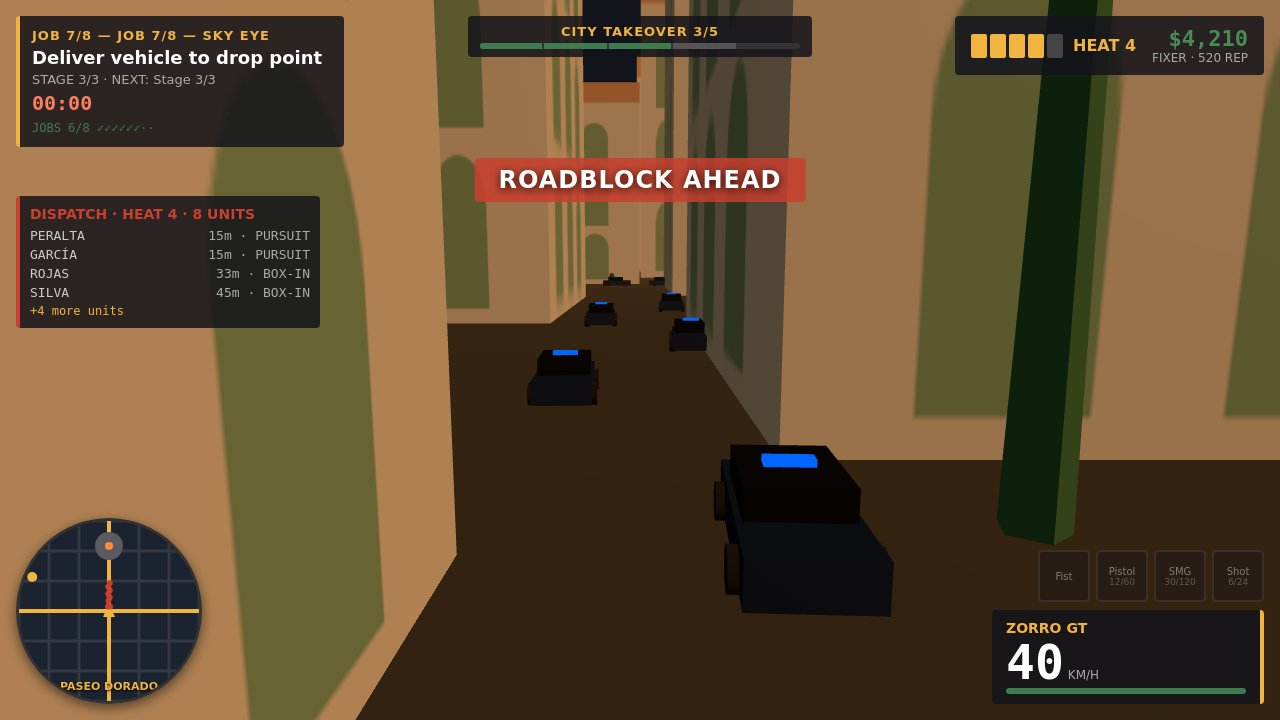
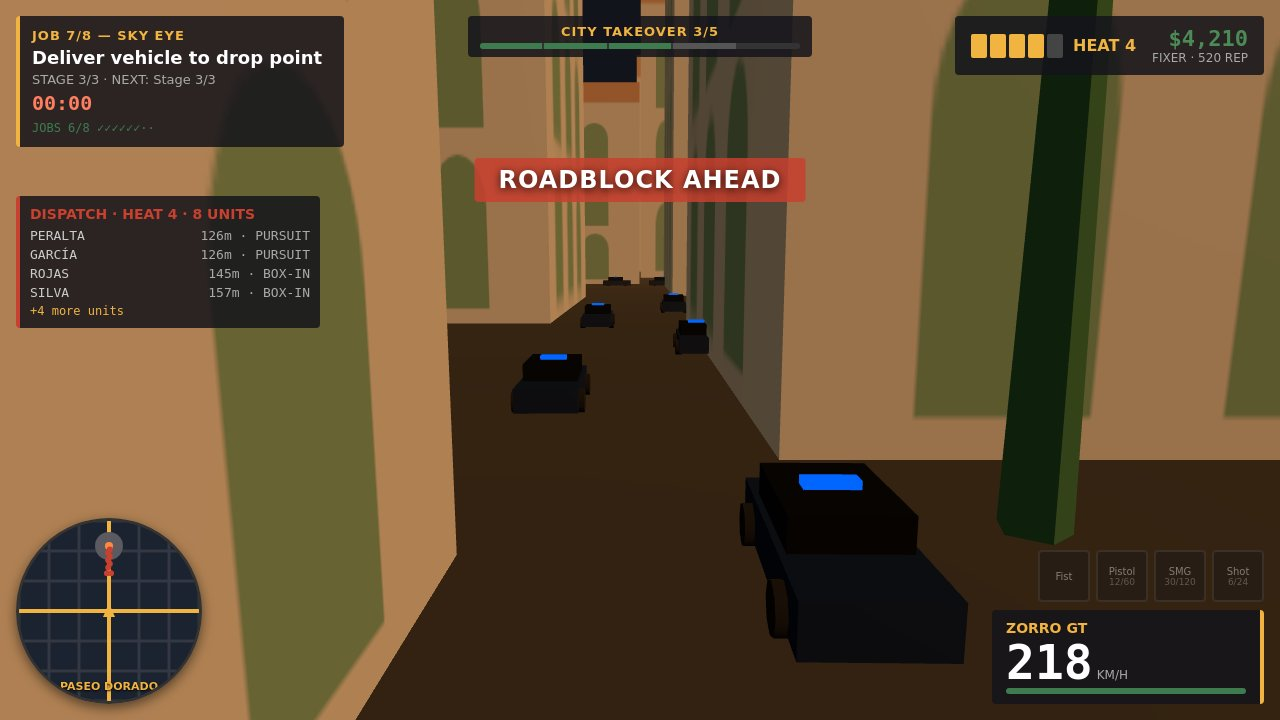
C4d: on-foot shootout staging (wheel, hostiles, street camera), cover speed/timer Co-Authored-By: Claude Code <noreply@anthropic.com>

diff --git a/game/main.js b/game/main.js
@@ -398,8 +398,8 @@ function simStep(dt) {
 // Camera follow
 function updateCamera() {
   if (player.mode === 'foot') {
-    camera.position.set(player.x, player.y + 4, player.z + 6);
-    camera.lookAt(player.x, player.y + 1, player.z);
+    camera.position.set(player.x, 0.9 + 4, player.z + 6);
+    camera.lookAt(player.x, 0.9 + 1, player.z);
   } else if (player.mode === 'drive' && player.car) {
     const c = player.car;
     const cx = c.x - Math.sin(c.heading) * 8;
@@ -456,12 +456,12 @@ window.addEventListener('load', () => {
       window.__calderaTest.stageCover();
       window.__photo.setCamera([256, 4.5, -114], [256, 1.5, -134], 55);
     } else if (shot === 'onfoot') {
-      window.__photo.loadCanonical({ seed: 31, ticks: 30, force: { missionIndex: 4, heat: 15, panels: 'cover', dialogue: { speaker: 'IRIS', text: 'Clear the market street, Tavo.', time: 1 } } });
+      window.__photo.loadCanonical({ seed: 31, ticks: 30, force: { missionIndex: 4, stage: 1, heat: 15, panels: 'cover', dialogue: { speaker: 'IRIS', text: 'Clear the market street, Tavo.', time: 1 } } });
+      window.__calderaTest.stageOnFoot();
       player.mode = 'foot';
       player.x = -224; player.z = 288;
       combat.setSlot(2);
-      combat.wheelOpen = true;
-      hud.showWheel();
+      combat.showWheel();
     } else if (shot === 'garage') {
       window.__photo.loadCanonical({ seed: 12, force: { screen: 'garage', panels: 'off' } });
     } else if (shot === 'start') {
@@ -511,7 +511,10 @@ window.__photo = {
     if (spec.force) {
       if (spec.force.cash !== undefined) save.cash = spec.force.cash;
       if (spec.force.rep !== undefined) save.rep = spec.force.rep;
-      if (spec.force.missionIndex !== undefined) save.missionIndex = spec.force.missionIndex;
+      if (spec.force.missionIndex !== undefined) {
+        save.missionIndex = spec.force.missionIndex;
+        if (spec.force.stage !== undefined) missions.forceStage(spec.force.missionIndex, spec.force.stage);
+      }
       if (spec.force.heat !== undefined) police.setPoints(spec.force.heat >= 150 ? 150 : spec.force.heat >= 100 ? 100 : spec.force.heat >= 60 ? 60 : spec.force.heat >= 30 ? 30 : 10);
       if (spec.force.station !== undefined && radio) {
         save.radioStation = spec.force.station;
@@ -539,6 +542,8 @@ window.__photo = {
         simStep(1 / 60);
       }
     }
+
+    if (shot === 'onfoot') window.__calderaTest.stageOnFoot();
 
     // One HUD update pass after freeze
     hud.update({ player, police, save, missions, economy, radio, simTime, lastEvent, dialogueLine });
@@ -571,6 +576,21 @@ window.__calderaTest = {
   hash() {
     return computeStateHash();
   },
+  stageOnFoot() {
+    const spec = getVehicleSpec('caiman');
+    const mesh = createCarMesh('caiman');
+    scene.add(mesh);
+    mesh.position.set(-220, 0, 280);
+
+    const hostileGeo = new THREE.CapsuleGeometry(0.4, 1.2, 4, 8);
+    const hostileMat = new THREE.MeshStandardMaterial({ color: 0x3E3A45, roughness: 0.8, flatShading: true });
+
+    for (let i = 0; i < 3; i++) {
+        const mesh = new THREE.Mesh(hostileGeo, hostileMat);
+        mesh.position.set(-218 + i*2, 0.9, 290);
+        scene.add(mesh);
+    }
+  },
   stageCover() {
     const spec = getVehicleSpec('zorro');
     const mesh = createCarMesh('zorro-gt');
@@ -580,7 +600,7 @@ window.__calderaTest = {
       mesh,
       x: 256, z: -100,
       heading: 0,
-      speed: 37,
+      speed: 225,
       durability: 100
     };
     player.mode = 'drive';

diff --git a/game/combat.js b/game/combat.js
@@ -20,7 +20,7 @@ export function createCombat(hudRoot) {
 
   // Build DOM Weapon Wheel display
   const wheelEl = document.createElement('div');
-  wheelEl.style.cssText = 'position:fixed; bottom:20px; right:20px; background:rgba(0,0,0,0.8); color:#fff; padding:10px; border-radius:8px; font-size:14px; pointer-events:none; z-index:100;';
+  wheelEl.style.cssText = 'position:fixed; bottom:20px; right:20px; background:rgba(0,0,0,0.8); color:#fff; padding:10px; border-radius:8px; font-size:14px; pointer-events:none; z-index:100; display:none;';
   hudRoot.appendChild(wheelEl);
 
   function updateDisplay() {
@@ -42,6 +42,7 @@ export function createCombat(hudRoot) {
     set armour(v) { armour = Math.max(0, Math.min(100, v)); updateDisplay(); },
     get activeSlot() { return activeSlot; },
     setSlot(slot) { if (slot >= 0 && slot < 4) { activeSlot = slot; updateDisplay(); } },
+    showWheel() { wheelEl.style.display = 'block'; },
     ammo,
     takeDamage(amount) {
       if (armour > 0) {

diff --git a/game/hud.js b/game/hud.js
@@ -349,7 +349,7 @@ export function createHud(ctx, hudRoot) {
       // Mission Panel update
       const obj = missions.currentObjective();
       if (obj) {
-        updateText('hp-job', `JOB ${save.missionIndex + 1}/8 — ${obj.jobLabel}`);
+        updateText('hp-job', obj.jobLabel);
         updateText('hp-obj', obj.objective);
         updateText('hp-stage', `${obj.stageLabel} · NEXT: ${obj.next}`);
         const timerEl = document.getElementById('hp-timer');

diff --git a/game/missions.js b/game/missions.js
@@ -118,7 +118,7 @@ export const JOBS = [
     intro: ['Iris', 'This is it, Tavo. Drive the Zorro up the volcano and deliver the ledger.'],
     stages: [
       { verb: 'STEAL_CAR', spec: 'zorro', at: [64, -448] },
-      { verb: 'DELIVER', at: [0, -512], radius: 16, needCar: true, floor: 150 },
+      { verb: 'DELIVER', at: [0, -512], radius: 16, needCar: true, floor: 150, timeLimit: 120 },
       { verb: 'SURVIVE', seconds: 30, floor: 150 }
     ]
   }
